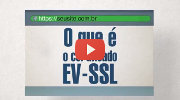
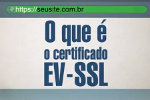
tirando o fundo das imagens do youtube da home

diff --git a/portal/home/static/home/css/style.css b/portal/home/static/home/css/style.css
@@ -615,6 +615,20 @@ img.size-thumbnail{
     z-index: 2000;
 }
 
+.ytube img{
+    width: 150px;
+    height: 100px;
+}
+
+.ytube div:before{
+    position: absolute;
+    content: '';
+    background: url(../img/youtube/youtube-seta.png) center center no-repeat;
+    width: 150px;
+    height: 100px;
+    pointer-events: none;
+}
+
 /*-------productpage started---------*/
 
 .black_link a {
